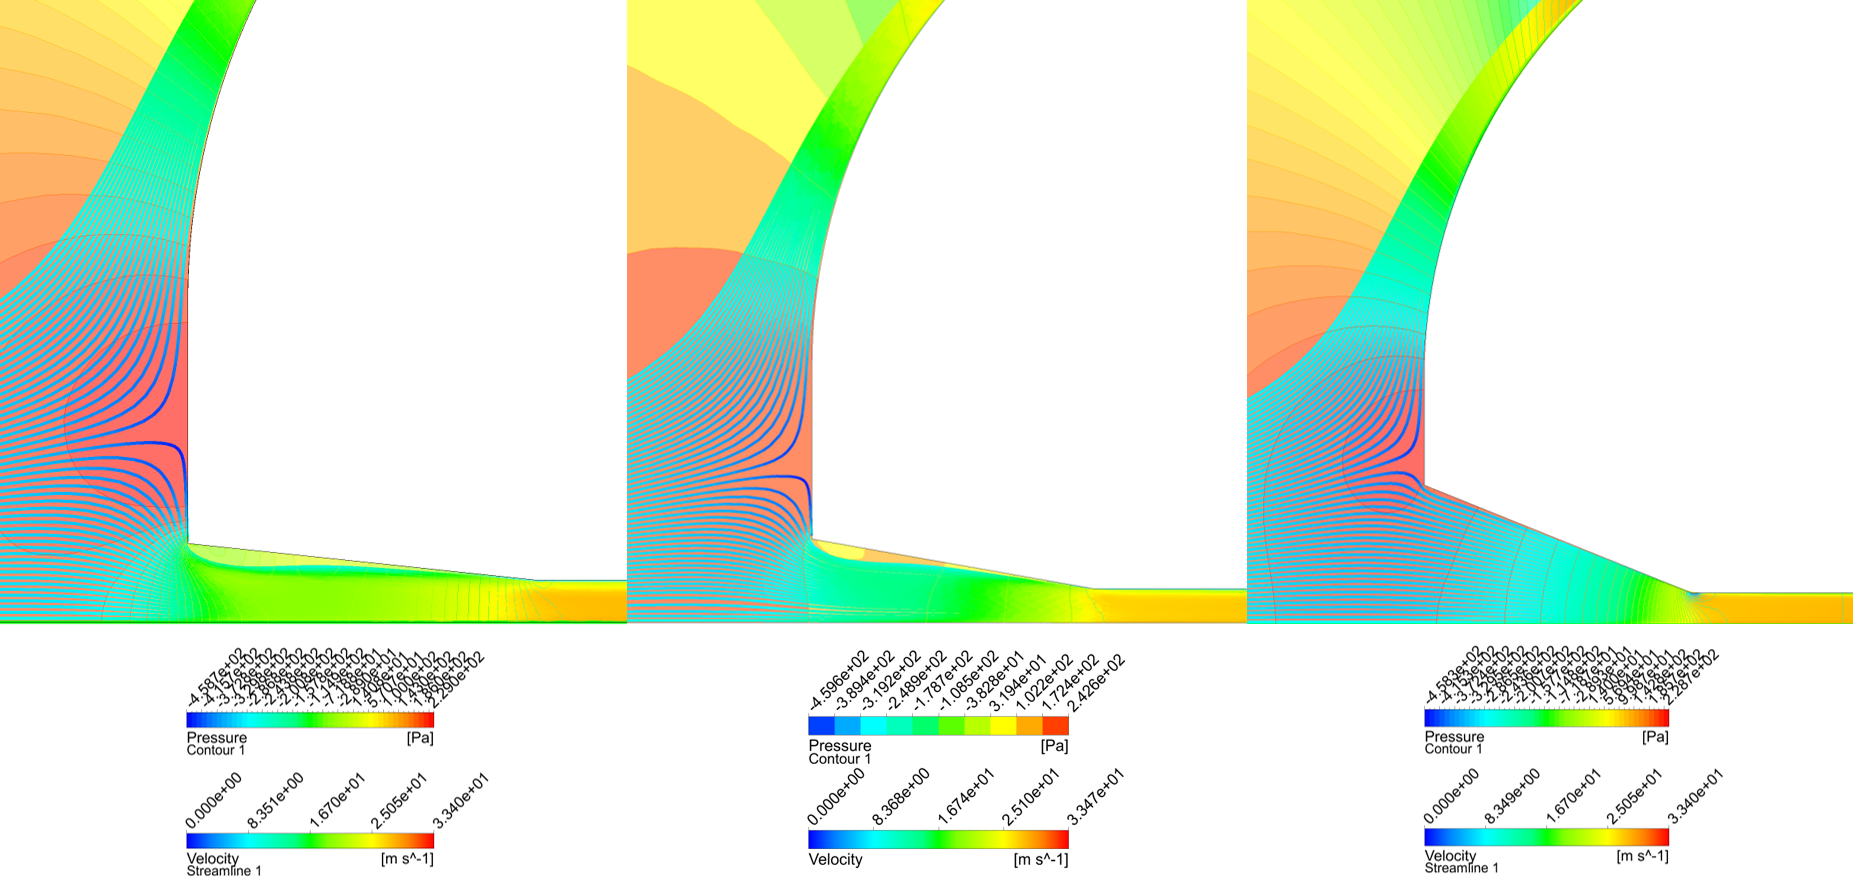
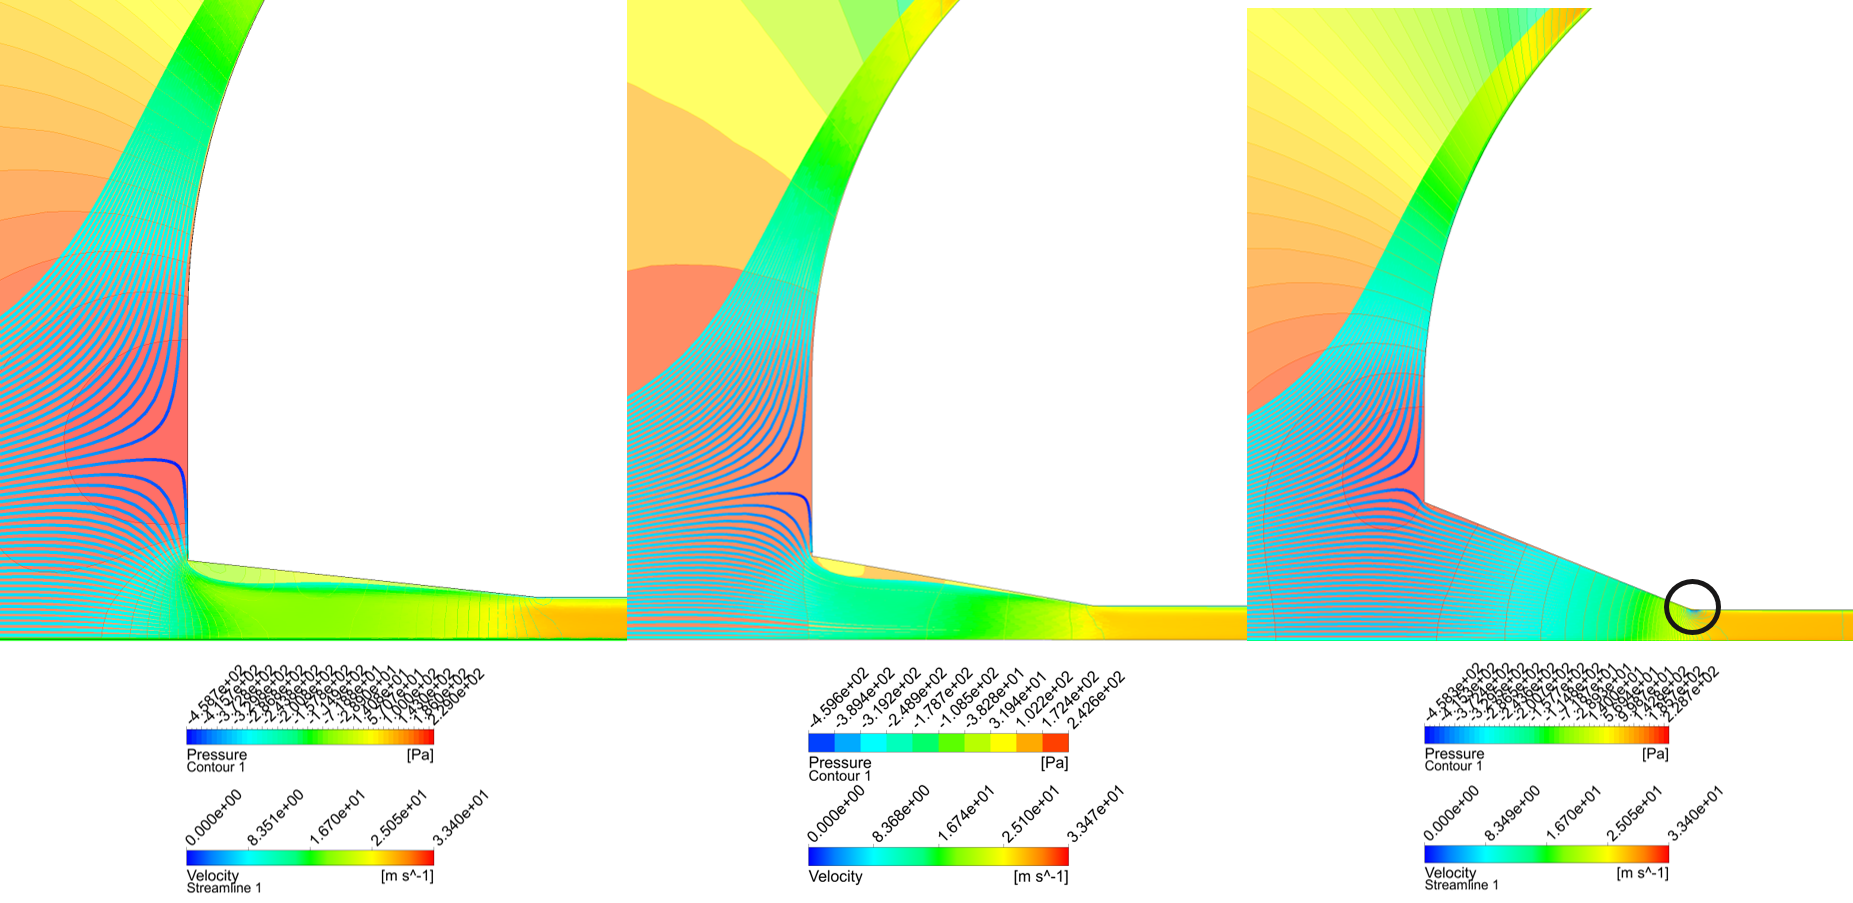
Figure revisions done - todo: detailing

Changed region(s): [[0.0, 0.0, 1.0, 1.0], [0.0923, 0.8837, 0.2768, 1.0], [0.3384, 0.0609, 0.3999, 0.1524]]

diff --git a/Content/results/results_2D.tex b/Content/results/results_2D.tex
@@ -35,7 +35,7 @@ These simulations will be discussed based on how changes in outlet and inlet ang
 
 \begin{figure}[!ht]
     \centering
-    \includegraphics[height= 5.5cm]{Figures/2D_EN/2D_EN_Streamline_compare.PNG}
+    \includegraphics[height= 5.1cm]{Figures/2D_EN/2D_EN_Streamline_compare.PNG}
     \caption{Undertray Velocity Streamlines for 10 Degree (left) and 20 Degree (right) Diffuser Angles.}
     \label{fig:2D_EN_streamline_compare}
 \end{figure}
@@ -94,7 +94,7 @@ This section utilises multiple types of bluff body to simulate the flow behaviou
 
 \noindent Following the drop in lift at 4 degrees, a degradation in downforce performance is clear on the graph, following the trend seen in the 2D enclosed lift analysis from 10 to 20 degrees. However, no significant drag changes or trend emerged with the changing of the diffuser angle. From both analyses, the slant angle's presence was deemed to not significantly affect the overall effect on lift and drag of the bluff body on both geometries, which is indicated by an essentially identical lift and drag trend between geometries 1 and 2. It is shown in Figure~\ref{fig:2D_OF_A1_CONTOUR}, in Appendix B, that flow separation occurred immediately at the slant angle, which indicates similar flow features at the rear compared to geometry 2 (Figure~\ref{fig:2D_OF_A2_CONTOUR}, in Appendix B). 
 
-\noindent On the other hand, the inlet variable shows the opposite  trend to that for the 2D enclosed flow, with the inlet angle found to be inversely proportional to the downforce. The flow generates a stagnation point on the front of the bluff body, which acts as the point that separates the oncoming flow into the flow over the body and through the undertray. This slows the velocity of the flow that enters the inlet region, hence reducing the overall effectiveness of the intake. In comparison, the 2D enclosed flow has a perfect flow intake, without any turbulence disturbance or variation in velocity. As it enters the inlet angle of 22 degrees, the low pressure separation region at the intake is insignificant; however, this occurrence is clearer at the transition between the intake and throat, as indicated by the blue velocity streamline highlighted in circle (see fig \ref{fig:A1_Contour_inlet_compare} right). This can be further observed on the inlet pressure plot in Figure~\ref{fig:2D_OF_A1_PLOT} in Appendix B. It can be seen that there is pressure fluctuation for the 6 and 10-degree angles. This indicates the early low-pressure region, as discussed earlier. Moreover, at an inlet elevation of 22 degrees, an immediate pressure drop is indicated on the plot at the transition corner between the inlet and throat region. Moreover, it can be observed that the immediate redirection of the streamlines in Figure~\ref{fig:A1_Contour_inlet_compare} causes a low pressure region.
+\noindent On the other hand, the inlet variable shows the opposite  trend to that for the 2D enclosed flow, with the inlet angle found to be inversely proportional to the downforce. The flow generates a stagnation point on the front of the bluff body, which acts as the point that separates the oncoming flow into the flow over the body and through the undertray. This slows the velocity of the flow that enters the inlet region, hence reducing the overall effectiveness of the intake. In comparison, the 2D enclosed flow has a perfect flow intake, without any turbulence disturbance or variation in velocity. As it enters the inlet angle of 22 degrees, the low pressure separation region at the intake is insignificant; however, this occurrence is clearer at the transition between the intake and throat, as indicated by the blue velocity streamline highlighted in black circle (see fig \ref{fig:A1_Contour_inlet_compare} right). This can be further observed on the inlet pressure plot in Figure~\ref{fig:2D_OF_A1_PLOT} in Appendix B. It can be seen that there is pressure fluctuation for the 6 and 10-degree angles. This indicates the early low-pressure region, as discussed earlier. Moreover, at an inlet elevation of 22 degrees, an immediate pressure drop is indicated on the plot at the transition corner between the inlet and throat region. Moreover, it can be observed that the immediate redirection of the streamlines in Figure~\ref{fig:A1_Contour_inlet_compare} causes a low pressure region.
 
 \begin{figure}[!h]
    \noindent\makebox[\textwidth]{

diff --git a/Content/methodology.tex b/Content/methodology.tex
@@ -29,7 +29,7 @@ To understand the flow behaviour in various undertray geometries, some kind of a
 \label{section: Numberical Method}
 \noindent The turbulence model is a crucial aspect in approximating the effect of unsteady turbulent fluctuations on the flow \cite{Cummings2015AppliedAerodynamics}. The quality of the turbulence modelling can significantly impact the fidelity of the simulations \cite{Lanfrit2005BestFLUENT}. Due to the time constraints and limited computational resources available for this project, a steady-state method was used throughout. To account for the effects of turbulence, a two-equation Reynolds-Averaged Navier-Stokes (RANS) approach was used to solve the time-averaged flow \cite{Cummings2015AppliedAerodynamics}. With a reasonable quality of mesh, physical lift and drag trends can be predicted, which can then be studied. The Realizable $k-\epsilon$ and $k-\omega$ Shear Stress Transport (SST) models were used in this project to solve the equations and estimate the downforce and drag of the undertray and bluff body.  
 
-\subsubsection{Realizable $k-\epsilon$ Models}
+\subsubsection{Realisable $k-\epsilon$ Models}
 The $k-\epsilon$ turbulence model is a two-equation transport model which specifically solves equations for the turbulence kinetic energy ($k$) and turbulence dissipation rate ($\epsilon$) \cite{Andersson2011Turbulent-flowModelling}\cite{Mansour1989Near-wallModeling}\cite{Ansys2006ModelingFlows}. The standard model is robust and widely used across a broad swathe of applications in engineering turbulence modelling; however, the $k-\epsilon$ family is not able to calculate some of the $\epsilon$ terms which can be anticipated using wall function. Moreover, $k-\epsilon$ does not perform well for flows with strong separations and large adverse pressure gradients, which are the primary feature of an undertray's diffuser \cite{Ansys2006ModelingFlows}.  Therefore realisable $k-\epsilon$ is broadly used in this analysis. The term 'realisable' itself means that the mathematical constraints of the Reynolds stresses are satisfied, improving its consistency  with turbulent flows. This specific transport model is crucial to capture important flow features of an undertray, such as flow rotation, significant adverse pressure gradients, and vortex formation.
 \begin{align}
 \frac{\partial}{\partial t}(\bar{\rho} k)+\frac{\partial}{\partial x_j}(\bar{\rho} \tilde{u}_j k) & = \frac{\partial}{\partial x_j} \left[ \left(\mu + \frac{\mu_t}{\sigma_k}\right) \frac{\partial k}{\partial x_j} \right] +P_k-\bar{\rho}\epsilon \\ 

diff --git a/Content/sustainability.tex b/Content/sustainability.tex
@@ -1,5 +1,5 @@
 \section{Sustainability}
 
-\noindent Sustainability has become a fundamental consideration of design and manufacture in most industries \cite{Gates2021HowDisaster}. The United Nations (UN) has created 17 Sustainable Development Goals, which have become the pillars and blueprints for achieving a better future for humankind \cite{UNITEDNATIONS}. Two goals align with this project: Industry, Innovation, and Infrastructure; and Responsible Consumption and Production. It is also clear that developing a new design for a complex device such as an undertray would generate a significant amount of waste were it to be done experimentally. The utilisation of Computational Fluid Dynamics (CFD) also eliminates a significant amount of power consumption. An average modern computer uses 0.2 KWh \cite{Anonymous2021HowEnerguide} than an actual subsonic wind tunnel with an average consumption of 200 KWh \cite{Anonymous2021FAQGroup}; this shows a significant reduction in power consumption. Moreover, by leveraging CFD, material consumption, production costs, electrical consumption, and carbon dioxide emissions in the prototyping stage can be reduced significantly to almost zero. 
+\noindent Sustainability has become a fundamental consideration of design and manufacture in most industries \cite{Gates2021HowDisaster}. The United Nations (UN) has created 17 Sustainable Development Goals, which have become the pillars and blueprints for achieving a better future for humankind \cite{UNITEDNATIONS}. Two goals align with this project: Industry, Innovation, and Infrastructure; and Responsible Consumption and Production. It is also clear that developing a new design for a complex device such as an undertray would generate a significant amount of waste were it to be done experimentally. The utilisation of Computational Fluid Dynamics (CFD) also eliminates a significant amount of power consumption. An average modern computer uses 0.06 - 0.3  KW \cite{Anonymous2021HowEnerguide} than an actual subsonic wind tunnel with an average consumption of 500 KW \cite{Anonymous2021FAQGroup}; this shows a significant reduction in power consumption. Moreover, by leveraging CFD, material consumption, production costs, electrical consumption, and carbon dioxide emissions in the prototyping stage can be reduced significantly to almost zero. 
 
 

diff --git a/Content/appendixes/appendix_c.tex b/Content/appendixes/appendix_c.tex
@@ -22,7 +22,7 @@
     \centering
     \noindent\makebox[\textwidth]{
     \includegraphics[width=1\textwidth]{Figures/3D_OF/3D_OF_ISO_COMPARE.png}}
-    \caption{Wall Shear and trailing vortex formation ($Q$-Criterion) of 3D Open flow with 10 degrees diffuser angle.}
+    \caption{$x$ Wall Shear and Trailing Vortex Formation ($Q$-Criterion) of 3D Open flow with 10 degrees diffuser angle.}
     \label{fig:3D_OF_ISO_COMPARE}
 \end{figure}
 %%%%%%%%%%%%%%%%%%%%%%%%%%%%%%
@@ -32,7 +32,7 @@
     \centering
     \noindent\makebox[\textwidth]{
     \includegraphics[width=0.95\textwidth]{Figures/3D_OF/3D_OF_BOTTOM_COMPARE_DIFF.png}}
-    \caption{Bottom view of wall shear stress and vortex generated ($Q$-Criterion) in various diffuser angle.}
+    \caption{Bottom View of $x$ Wall Shear and Vortex Generated ($Q$-Criterion) in Various Diffuser Angle.}
     \label{fig:3D_OF_BOTTOM_VIEW_COMPARE_DIFF}
 \end{figure}
 
@@ -40,7 +40,7 @@
     \centering
     \noindent\makebox[\textwidth]{
     \includegraphics[width=0.95\textwidth]{Figures/3D_OF/3D_OF_BOTTOM_COMPARE_DIFF_F.png}}
-    \caption{Bottom view of wall shear-stress and vortex generated ($Q$-Criterion) in various diffuser angle with additional vortex generator}
+    \caption{Bottom View of $x$ Wall Shear and Vortex Generated ($Q$-Criterion) in Various Diffuser Angle with Additional Vortex Generator.}
     \label{fig:3D_OF_BOTTOM_VIEW_COMPARE_DIFF_F}
 \end{figure}
 
@@ -48,6 +48,6 @@
     \centering
     \noindent\makebox[\textwidth]{
     \includegraphics[width=0.95\textwidth]{Figures/3D_OF/3D_OF_BOTTOM_COMPARE_IN.png}}
-    \centering{\caption{Bottom view of wall shear-stress and vortex} generated ($Q$-criterion) in various inlet angle.}
+    \centering{\caption{Bottom view of $x$ wall shear and vortex} generated ($Q$-criterion) in various inlet angle.}
     \label{fig:3D_OF_BOTTOM_VIEW_COMPARE_DIFF_IN}
 \end{figure}

diff --git a/Content/results/results_3D.tex b/Content/results/results_3D.tex
@@ -10,7 +10,7 @@ An identical 2D sketch from geometry 3 of the 2D open flow section was used, whi
 \begin{figure}[!h]
     \centering
     \noindent\makebox[\textwidth]{
-    \includegraphics[width=0.8\textwidth]{Figures/3D_OF/3D_OF_D.PNG}}
+    \includegraphics[width=0.75\textwidth]{Figures/3D_OF/3D_OF_D.PNG}}
     \caption{Geometry Generated for 3D Open-Flow Analysis.}
     \label{fig:3D_OF_GEOM}
 \end{figure}
@@ -25,7 +25,7 @@ Due to the nature of the mesh, the $k-\omega$ SST model was used throughout this
 \begin{figure}[htb!]
     \centering
     \noindent\makebox[\textwidth]{
-    \includegraphics[width=0.95\textwidth]{Figures/Graph/3D_OF.png}}
+    \includegraphics[width=0.99\textwidth]{Figures/Graph/3D_OF.png}}
     \caption{Lift and Drag Variation of Diffuser (left) and Inlet (right) Angle for All Geometry Configurations.}
     \label{fig:3D_OF_PLOT_COMPARE_ALL}
 \end{figure}
@@ -37,7 +37,7 @@ Due to the nature of the mesh, the $k-\omega$ SST model was used throughout this
 \begin{figure}[!htb]
     \centering
     \noindent\makebox[\textwidth]{
-    \includegraphics[width=0.8\textwidth]{Figures/3D_OF/3D_OF_VECTOR_SUCTION.png}}
+    \includegraphics[width=0.9\textwidth]{Figures/3D_OF/3D_OF_VECTOR_SUCTION.png}}
     \caption{Vector Diagram of Velocity Flow on the Undertray's Cross-Section Indicating Flow Suction From The Side of The Body.}
     \label{fig:Vector_suction_diagram}
 \end{figure}

diff --git a/Content/appendixes/appendix_d.tex b/Content/appendixes/appendix_d.tex
@@ -8,7 +8,7 @@
     \centering
     \noindent\makebox[\textwidth]{
     \includegraphics[width=0.9\textwidth]{Figures/UTP_FIGS/UTP_D_V.png}}
-    \caption{Various Undertray Prototype Geometries}
+    \caption{Various Undertray Prototype Geometries.}
     \label{fig:UTP_D}
 \end{figure}
 
@@ -26,7 +26,7 @@
     \centering
     \noindent\makebox[\textwidth]{
     \includegraphics[width=1.1\textwidth]{Figures/UTP_FIGS/UTP_QCRIT_ISO_COMPARE_ALL.png}}
-    \caption{Isometric view of X Wall-Shear and Vortices Generated ($Q$-Criterion) of Various Undertray prototypes.}
+    \caption{Isometric View of $x$ Wall-Shear and Vortices Generated ($Q$-Criterion) of Various Undertray Prototypes.}
     \label{fig:UTP_ISO_QCRIT_ALL_COMPARE}
 \end{figure}
 
@@ -36,7 +36,7 @@
     \centering
     \noindent\makebox[\textwidth]{
     \includegraphics[width=0.8\textwidth]{Figures/UTP_FIGS/UTP_QCRIT_BOTTOM_COMPARE_ALL.png}}
-    \caption{Bottom view of X Wall-Shear and Vortices Generated ($Q$-Criterion) of Various Undertray prototypes.}
+    \caption{Bottom view of $x$ Wall-Shear and Vortices Generated ($Q$-Criterion) of Various Undertray Prototypes.}
     \label{fig:UTP_BOTTOM_QCRIT_ALL_COMPARE}
 \end{figure}
 

diff --git a/Content/acknowlegment.tex b/Content/acknowlegment.tex
@@ -8,9 +8,9 @@
 
 \vspace{1cm}
 
-\textit{My supervisor, \textbf{Dr. Rob Watson}, for his guidance, support, help, and the lesson about the meaning of story in a research.}
+\textit{My supervisor, \textbf{Dr Rob Watson}, for his guidance, support, help, and the lesson about the meaning of story in a research.}
 
-\textit{Computer Engineer, \textbf{Dr. John Mackle}, for his constant support and kindness in providing my IT needs at all times.}
+\textit{Computer Engineer, \textbf{Dr John Mackle}, for his constant support and kindness in providing my IT needs at all times.}
 
 \textit{Keluarga saya, \textbf{Timur, Rebekka, dan Emma}, yang selalu ada, mendukung, dan percaya disetiap koko melangkah. Karena mereka, aku menjadi aku yang sekarang.}
 

diff --git a/Content/literature_review.tex b/Content/literature_review.tex
@@ -131,7 +131,7 @@ An undertray is an aerodynamic device that is attached to the underside of a rac
 \begin{figure}[!ht]
 \begin{center}
 %    
-  \begin{subfigure}[b]{0.4\textwidth}
+  \begin{subfigure}[b]{0.45\textwidth}
     \includegraphics[height=4.5cm]{Figures/underbody.PNG}
   \end{subfigure}
   %

diff --git a/cover.tex b/cover.tex
@@ -23,7 +23,7 @@ MEE 3030
 Name: & \quad Dennise Zefanya Tohpati (40222359)\\
 Programme: & \quad BEng Aerospace Engineering\\
 Supervisor: & \quad Dr Rob Watson\\
-Date: & \quad 29$^{th}$ March 2021\\
+Date: & \quad 2$^{nd}$ April 2021\\
 
 \end{tabularx}
 \end{titlepage}
